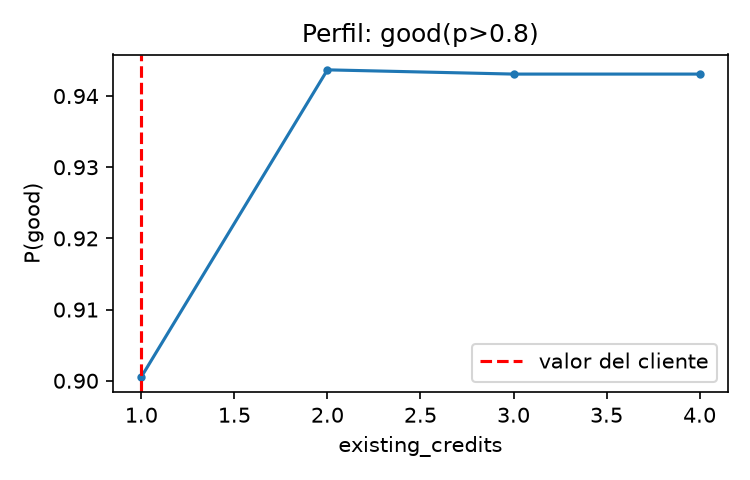
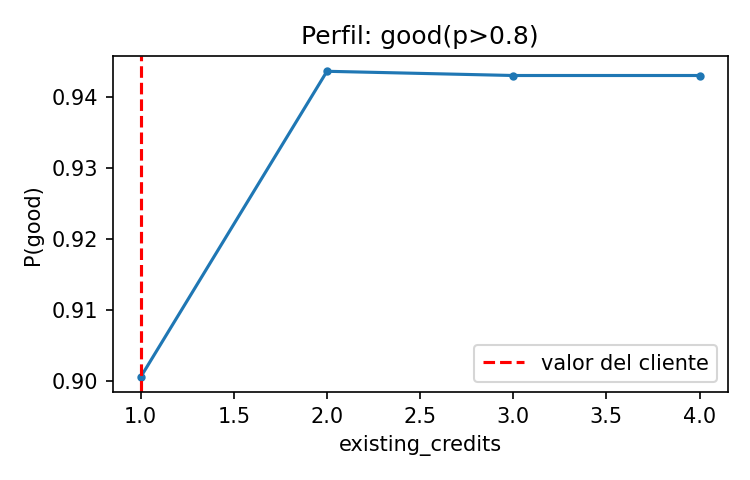
fix(task3): verificar N para Jaccard 0.9 (3.5a)

diff --git a/lab10_task3.py b/lab10_task3.py
@@ -232,13 +232,27 @@ print("\n3.4:", json.dumps(cf, indent=1, ensure_ascii=False))
 # --------------------------------------------------------------------------- #
 # Apoyo para el Task 3.5
 # --------------------------------------------------------------------------- #
-# (a) Jaccard con N mayor (sigma_rel = 0.75) para extrapolar a Jaccard = 0.9
-extra = {}
-for n in (10000, 20000, 40000):
+# (a) N necesario para Jaccard = 0.9 con sigma_rel = 0.75.
+# En la tabla del 3.2 el Jaccard ya satura en 1.0 con N=5000, asi que 0.9 cae entre N=500 y N=2000.
+# Se interpola linealmente en log N entre esos dos puntos (el ruido de los coeficientes baja como
+# 1/sqrt(N_ef) y N_ef es proporcional a N, por eso se usa una escala logaritmica):
+#   J(N) ~ a + b log N   ->   N* = exp((0.9 - a) / b)
+# Luego se verifica con 20 corridas NUEVAS (semillas distintas a las del 3.2) en N* y en dos vecinos.
+S35, J_TARGET = "sig=0.75", 0.9
+n_lo, n_hi = 500, 2000
+j_lo, j_hi = jac.loc[f"N={n_lo}", S35], jac.loc[f"N={n_hi}", S35]
+b_ = (j_hi - j_lo) / (np.log(n_hi) - np.log(n_lo))
+a_ = j_lo - b_ * np.log(n_lo)
+n_star = int(round(np.exp((J_TARGET - a_) / b_), -1))
+nef_ratio = nef.loc[f"N={n_hi}", S35] / n_hi                          # N_ef / N con sigma_rel = 0.75
+verif = {}
+for n in (int(round(0.75 * n_star, -1)), n_star, int(round(1.25 * n_star, -1))):
     j_, ne_ = stability(n, 0.75, base_seed=5000)
-    extra[f"N={n}"] = dict(jaccard=j_, nef=ne_)
-R["t35a_extra"] = extra
-print("\n3.5a corridas adicionales (sigma=0.75):", extra)
+    verif[f"N={n}"] = dict(jaccard=j_, nef=ne_)
+R["t35a"] = dict(sigma_rel=0.75, puntos=dict(N=[n_lo, n_hi], jaccard=[float(j_lo), float(j_hi)]),
+                 a=float(a_), b=float(b_), N_estimado=n_star, Nef_estimado=float(n_star * nef_ratio),
+                 verificacion=verif)
+print("\n3.5a:", json.dumps(R["t35a"], indent=1))
 
 # (b) mayor discrepancia LIME vs SHAP: cliente y variable con mayor diferencia de rango
 best = (None, None, -1)
@@ -290,7 +304,3 @@ print("\n3.5d:", json.dumps(info, indent=1, ensure_ascii=False))
 
 json.dump(R, open(DIR / "resultados/task3.json", "w"), indent=2, ensure_ascii=False, default=float)
 print("\nListo -> resultados/task3.json")
-
-for n in (1500, 1800, 2000):
-    j_, ne_ = stability(n, 0.75, base_seed=7000)
-    print(n, round(j_, 3), round(ne_, 1))
